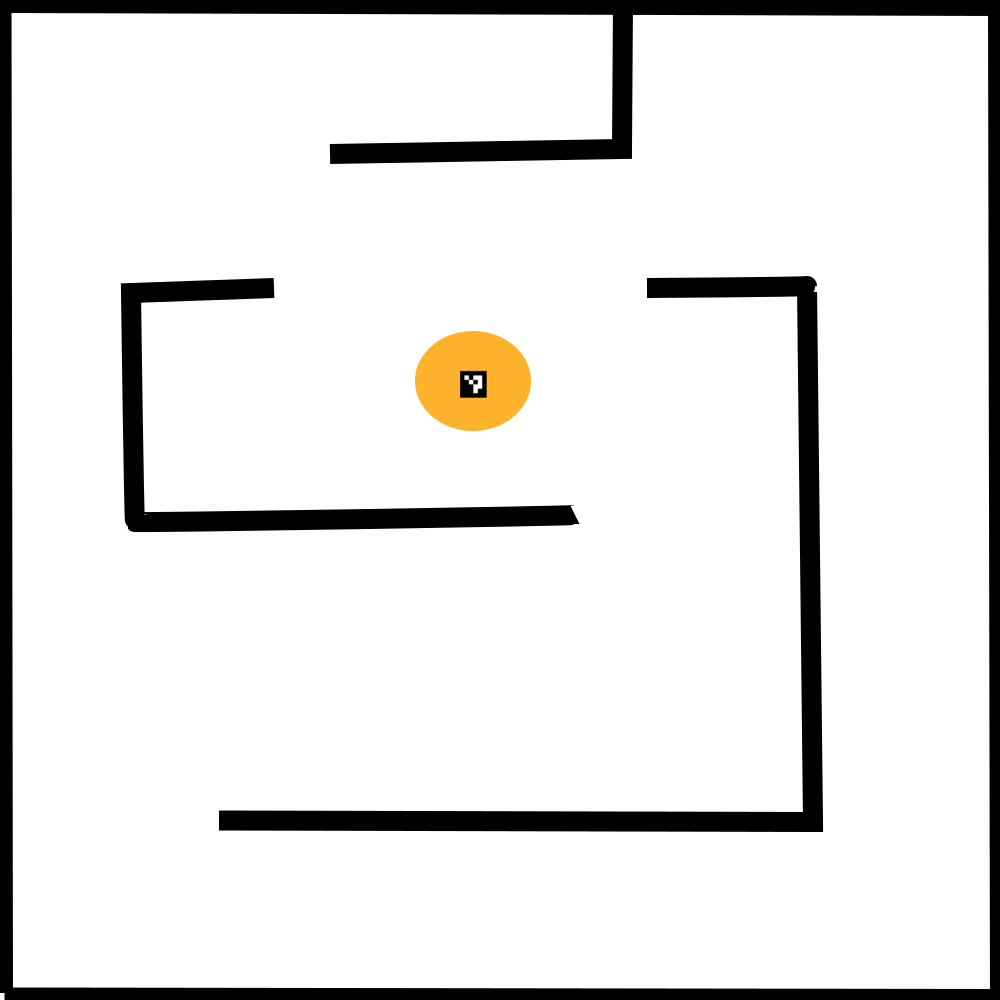
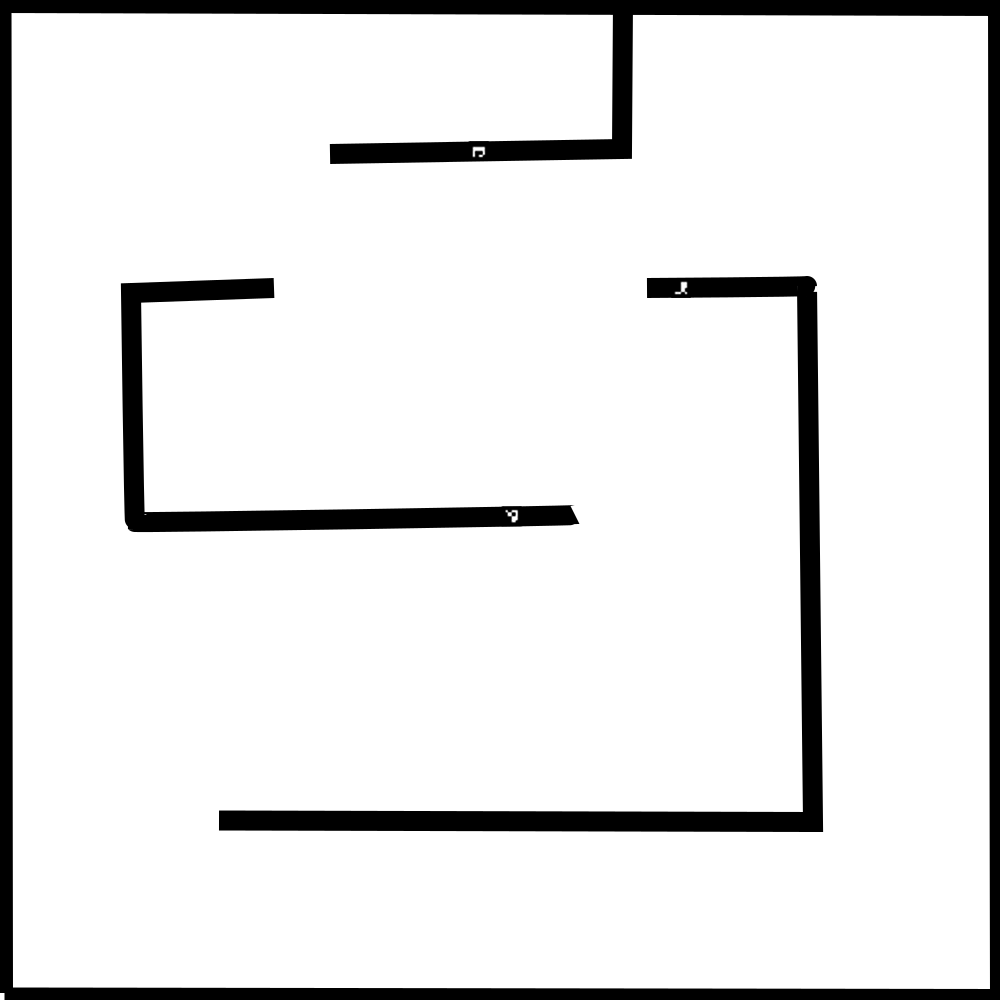
correctly set up map_1 for heist

Changed region(s): [[0.403, 0.31, 0.527, 0.434], [0.496, 0.496, 0.527, 0.527], [0.465, 0.124, 0.496, 0.155]]

diff --git a/heist/scripts/map_1_setup.py b/heist/scripts/map_1_setup.py
@@ -11,9 +11,13 @@ rospack    = rospkg.RosPack()
 catch_path = rospack.get_path('heist')
 
 
-filepath   = os.path.join(catch_path, 'maps/walls.npy')
-walls      = np.load(filepath)
-walls_obj  = rgt.game_object('walls_obj', [walls], np.array([1]))
+filepath   = os.path.join(catch_path, 'maps/left_wall.npy')
+left_wall  = np.load(filepath)
+filepath   = os.path.join(catch_path, 'maps/right_wall.npy')
+right_wall = np.load(filepath)
+filepath   = os.path.join(catch_path, 'maps/outer_wall.npy')
+outer_wall = np.load(filepath)
+walls_obj  = rgt.game_object('walls_obj', [right_wall,left_wall,outer_wall], np.array([1]))
 
 name      = "guard_obj"
 cat_id    = 1

diff --git a/heist/scripts/heist_client.py b/heist/scripts/heist_client.py
@@ -42,6 +42,7 @@ if __name__ == '__main__':
             evader_visible = visibility(guard_pos,evader_pos,["walls_obj"],1000)
             if evader_visible:
                 game_state = -1
+                print("The Guard Wins!")
 
 
             pub.publish(game_state)
